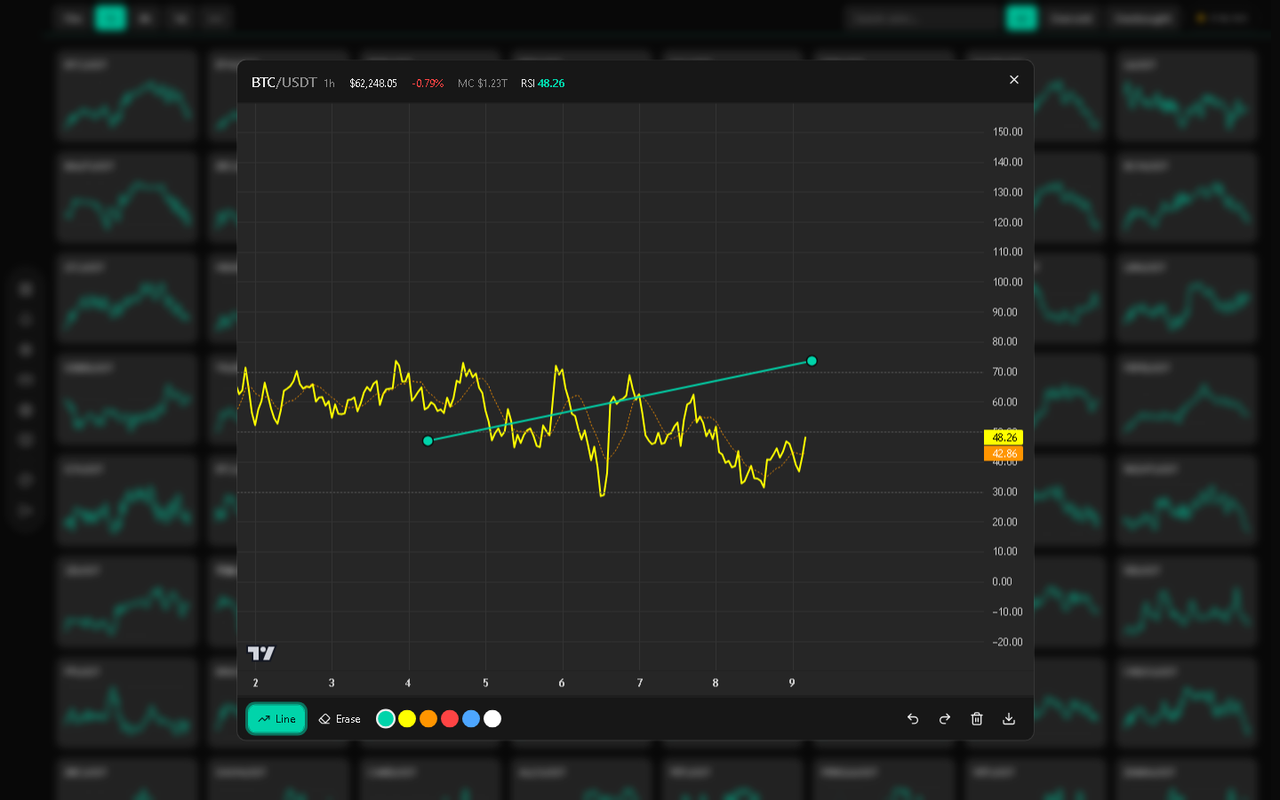
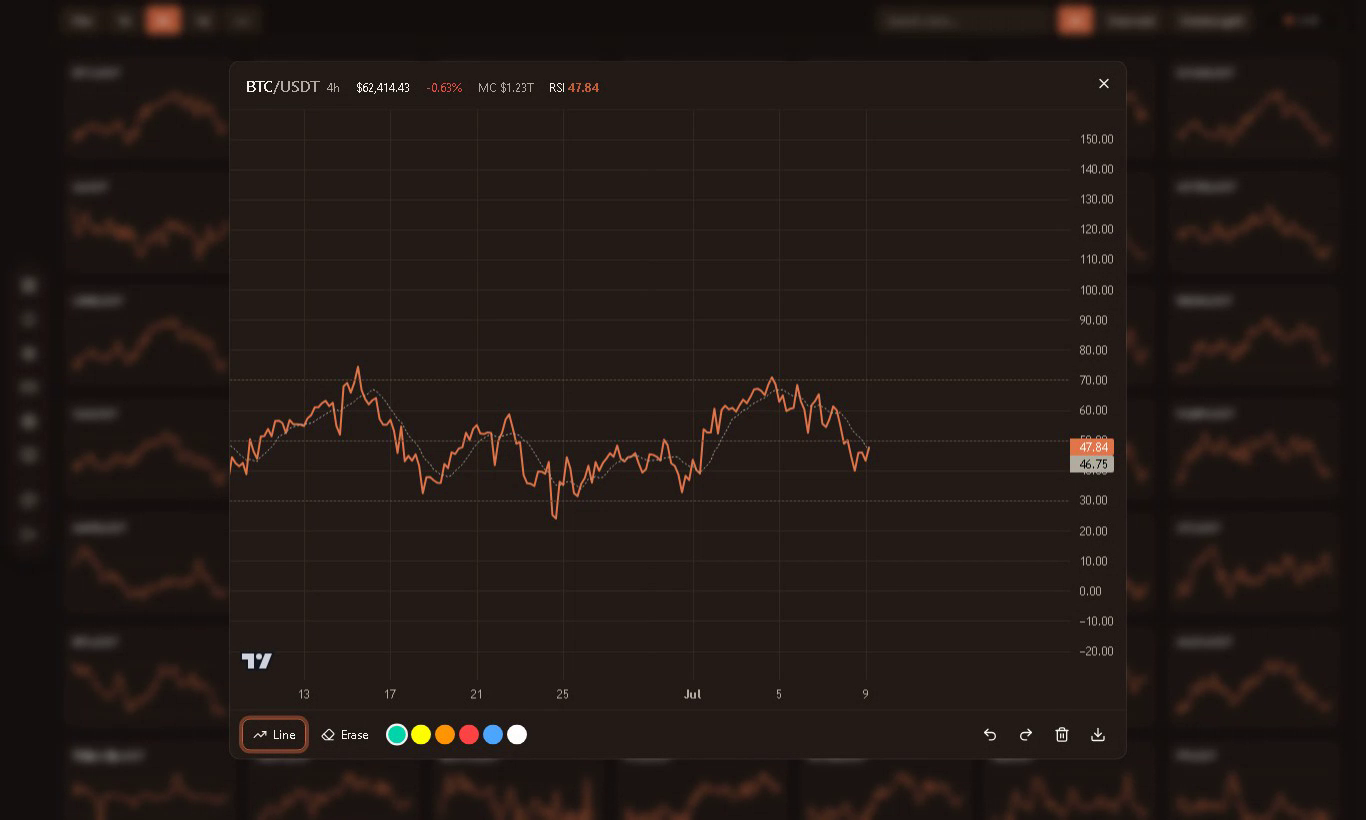
Add Terracotta interaction clips

diff --git a/README.md b/README.md
@@ -3,47 +3,73 @@
 Private SaaS product showcase. Source code is not published in this repository.
 
 <p align="center">
-  <img src="assets/hero-tool.png" alt="RSI Screener logged-in market dashboard" width="100%">
+  <img src="assets/hero-tool.png" alt="RSI Screener Terracotta dashboard" width="100%">
 </p>
 
-## The Product
+## What It Is
 
-RSI Screener is a logged-in crypto market tool for scanning Binance spot pairs by
-RSI. The main screen is a dense live grid: each tile is a pair, each line is its
-RSI movement, and the toolbar lets you move between timeframes, search symbols,
-and isolate oversold or overbought conditions.
+RSI Screener is a logged-in market scanner for Binance spot pairs. It gives a
+trader one dense view of live RSI movement instead of forcing them to open charts
+one by one.
+
+## 1. Market Grid Scrolling
+
+The main surface is the grid: hundreds of symbols, each with its own RSI mini
+chart, designed for scanning quickly.
 
 <p align="center">
-  <img src="assets/tool-flow.webp" alt="RSI Screener logged-in workflow animation" width="100%">
+  <img src="assets/clip-grid-scroll.gif" alt="Scrolling through the RSI Screener market grid" width="100%">
 </p>
 
-## Chart Workflow
+## 2. Timeframes And Filters
 
-The full tool opens a coin into an RSI chart view with zoom/pan, drawing tools,
-undo/redo, color selection, and PNG export.
+Switch between short-term and higher-timeframe RSI, then isolate oversold or
+overbought conditions directly from the toolbar.
 
 <p align="center">
-  <img src="assets/chart-tool.png" alt="RSI chart modal with drawing tools" width="100%">
+  <img src="assets/clip-timeframes-filters.gif" alt="Switching timeframes and RSI filters" width="100%">
 </p>
 
-## Mobile Tool
+## 3. Search To Chart
 
-The same scanner works as a compact mobile interface with the timeframe row,
-search, filters, live status, and full tile grid.
+Search a symbol and press enter to jump from the grid into the full chart view.
 
 <p align="center">
-  <img src="assets/mobile-tool.png" alt="RSI Screener logged-in mobile tool" width="390">
+  <img src="assets/clip-search-chart.gif" alt="Searching BTC and opening the RSI chart" width="100%">
+</p>
+
+## 4. Chart Drawing Tools
+
+The chart view supports drawing trendlines, choosing colors, undo/redo, clearing
+drawings, and exporting the setup as a PNG.
+
+<p align="center">
+  <img src="assets/clip-chart-drawing.gif" alt="Drawing a trendline on the RSI chart" width="100%">
+</p>
+
+<p align="center">
+  <img src="assets/chart-tool.png" alt="RSI chart modal with drawing toolbar" width="100%">
+</p>
+
+## 5. Mobile Scanner
+
+The same tool compresses into a mobile layout with timeframe controls, search,
+filters, live status, and a two-column tile grid.
+
+<p align="center">
+  <img src="assets/clip-mobile-scroll.gif" alt="Scrolling the mobile RSI Screener tool" width="390">
 </p>
 
 ## What I Built
 
 - Server-side RSI engine for Binance spot market data
-- Dense scanner grid for 300+ symbols
-- Timeframe switching and warm snapshot loading
-- Oversold / overbought filters
-- Symbol search and chart opening flow
+- Warm snapshot loading for the screener grid
+- Timeframe switching across the tool
+- Oversold and overbought filtering
+- Symbol search and chart-opening flow
 - RSI chart modal with drawing and export tools
 - Email/password auth, JWT sessions, user settings, Paddle billing, and protected access
+- Responsive desktop and mobile tool surfaces
 
 ## Architecture
 